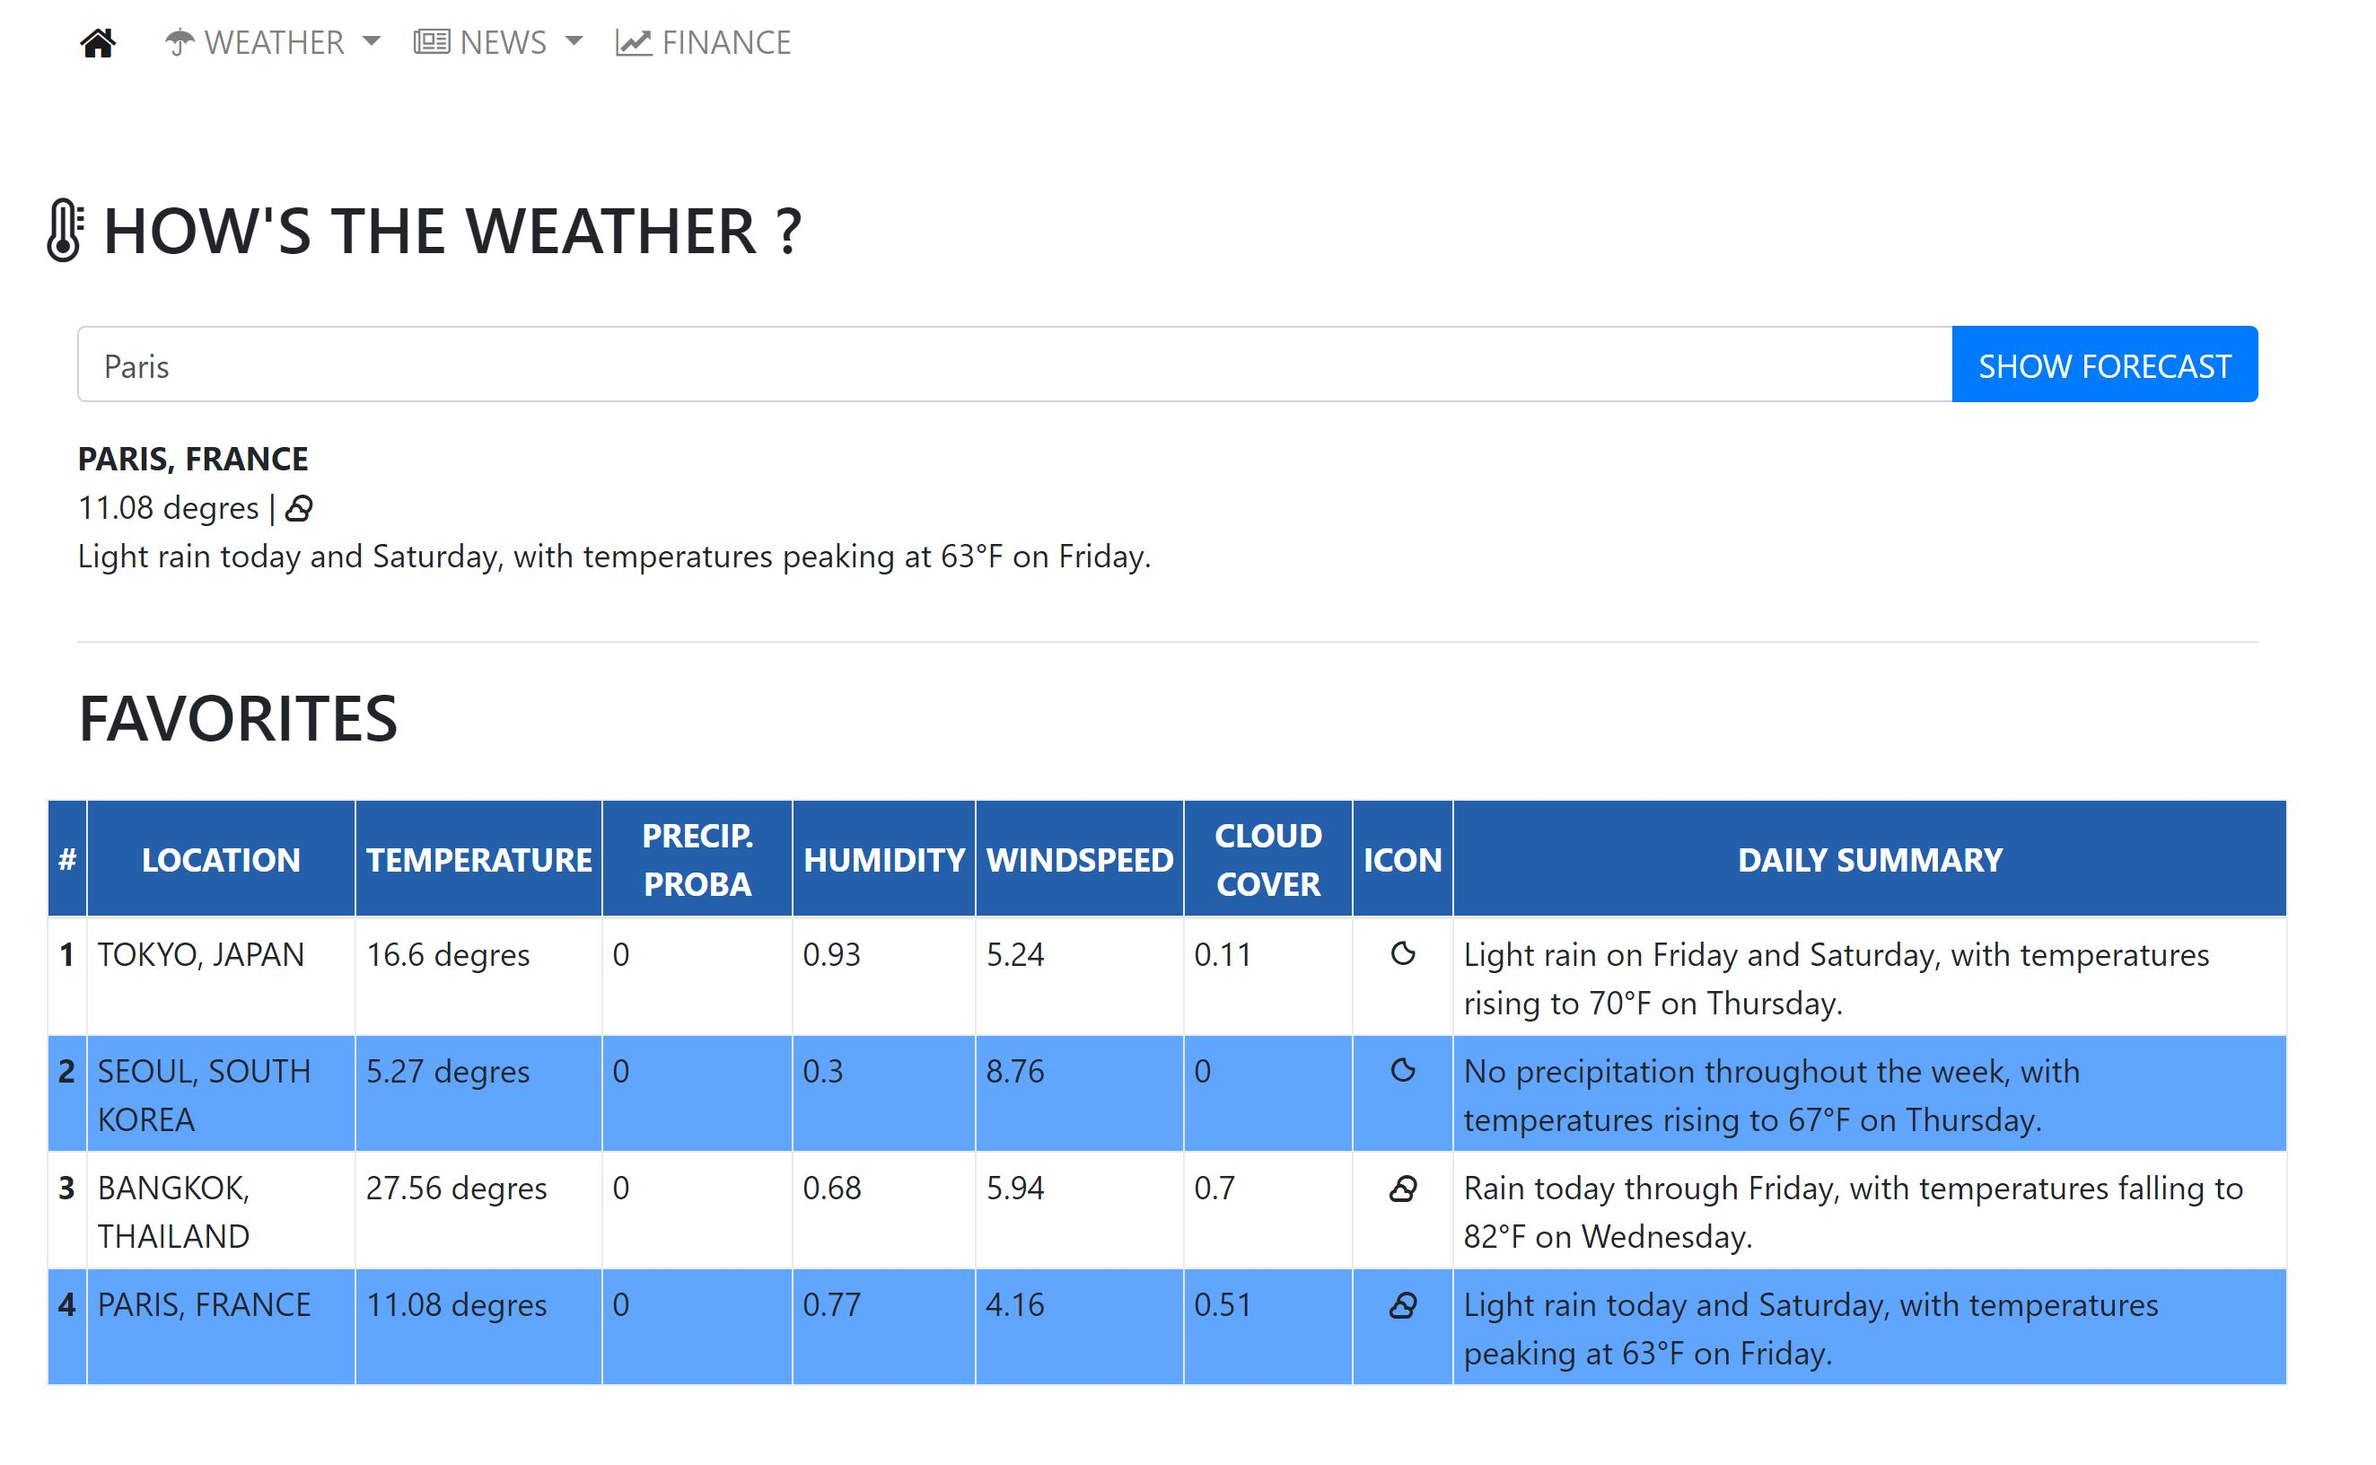
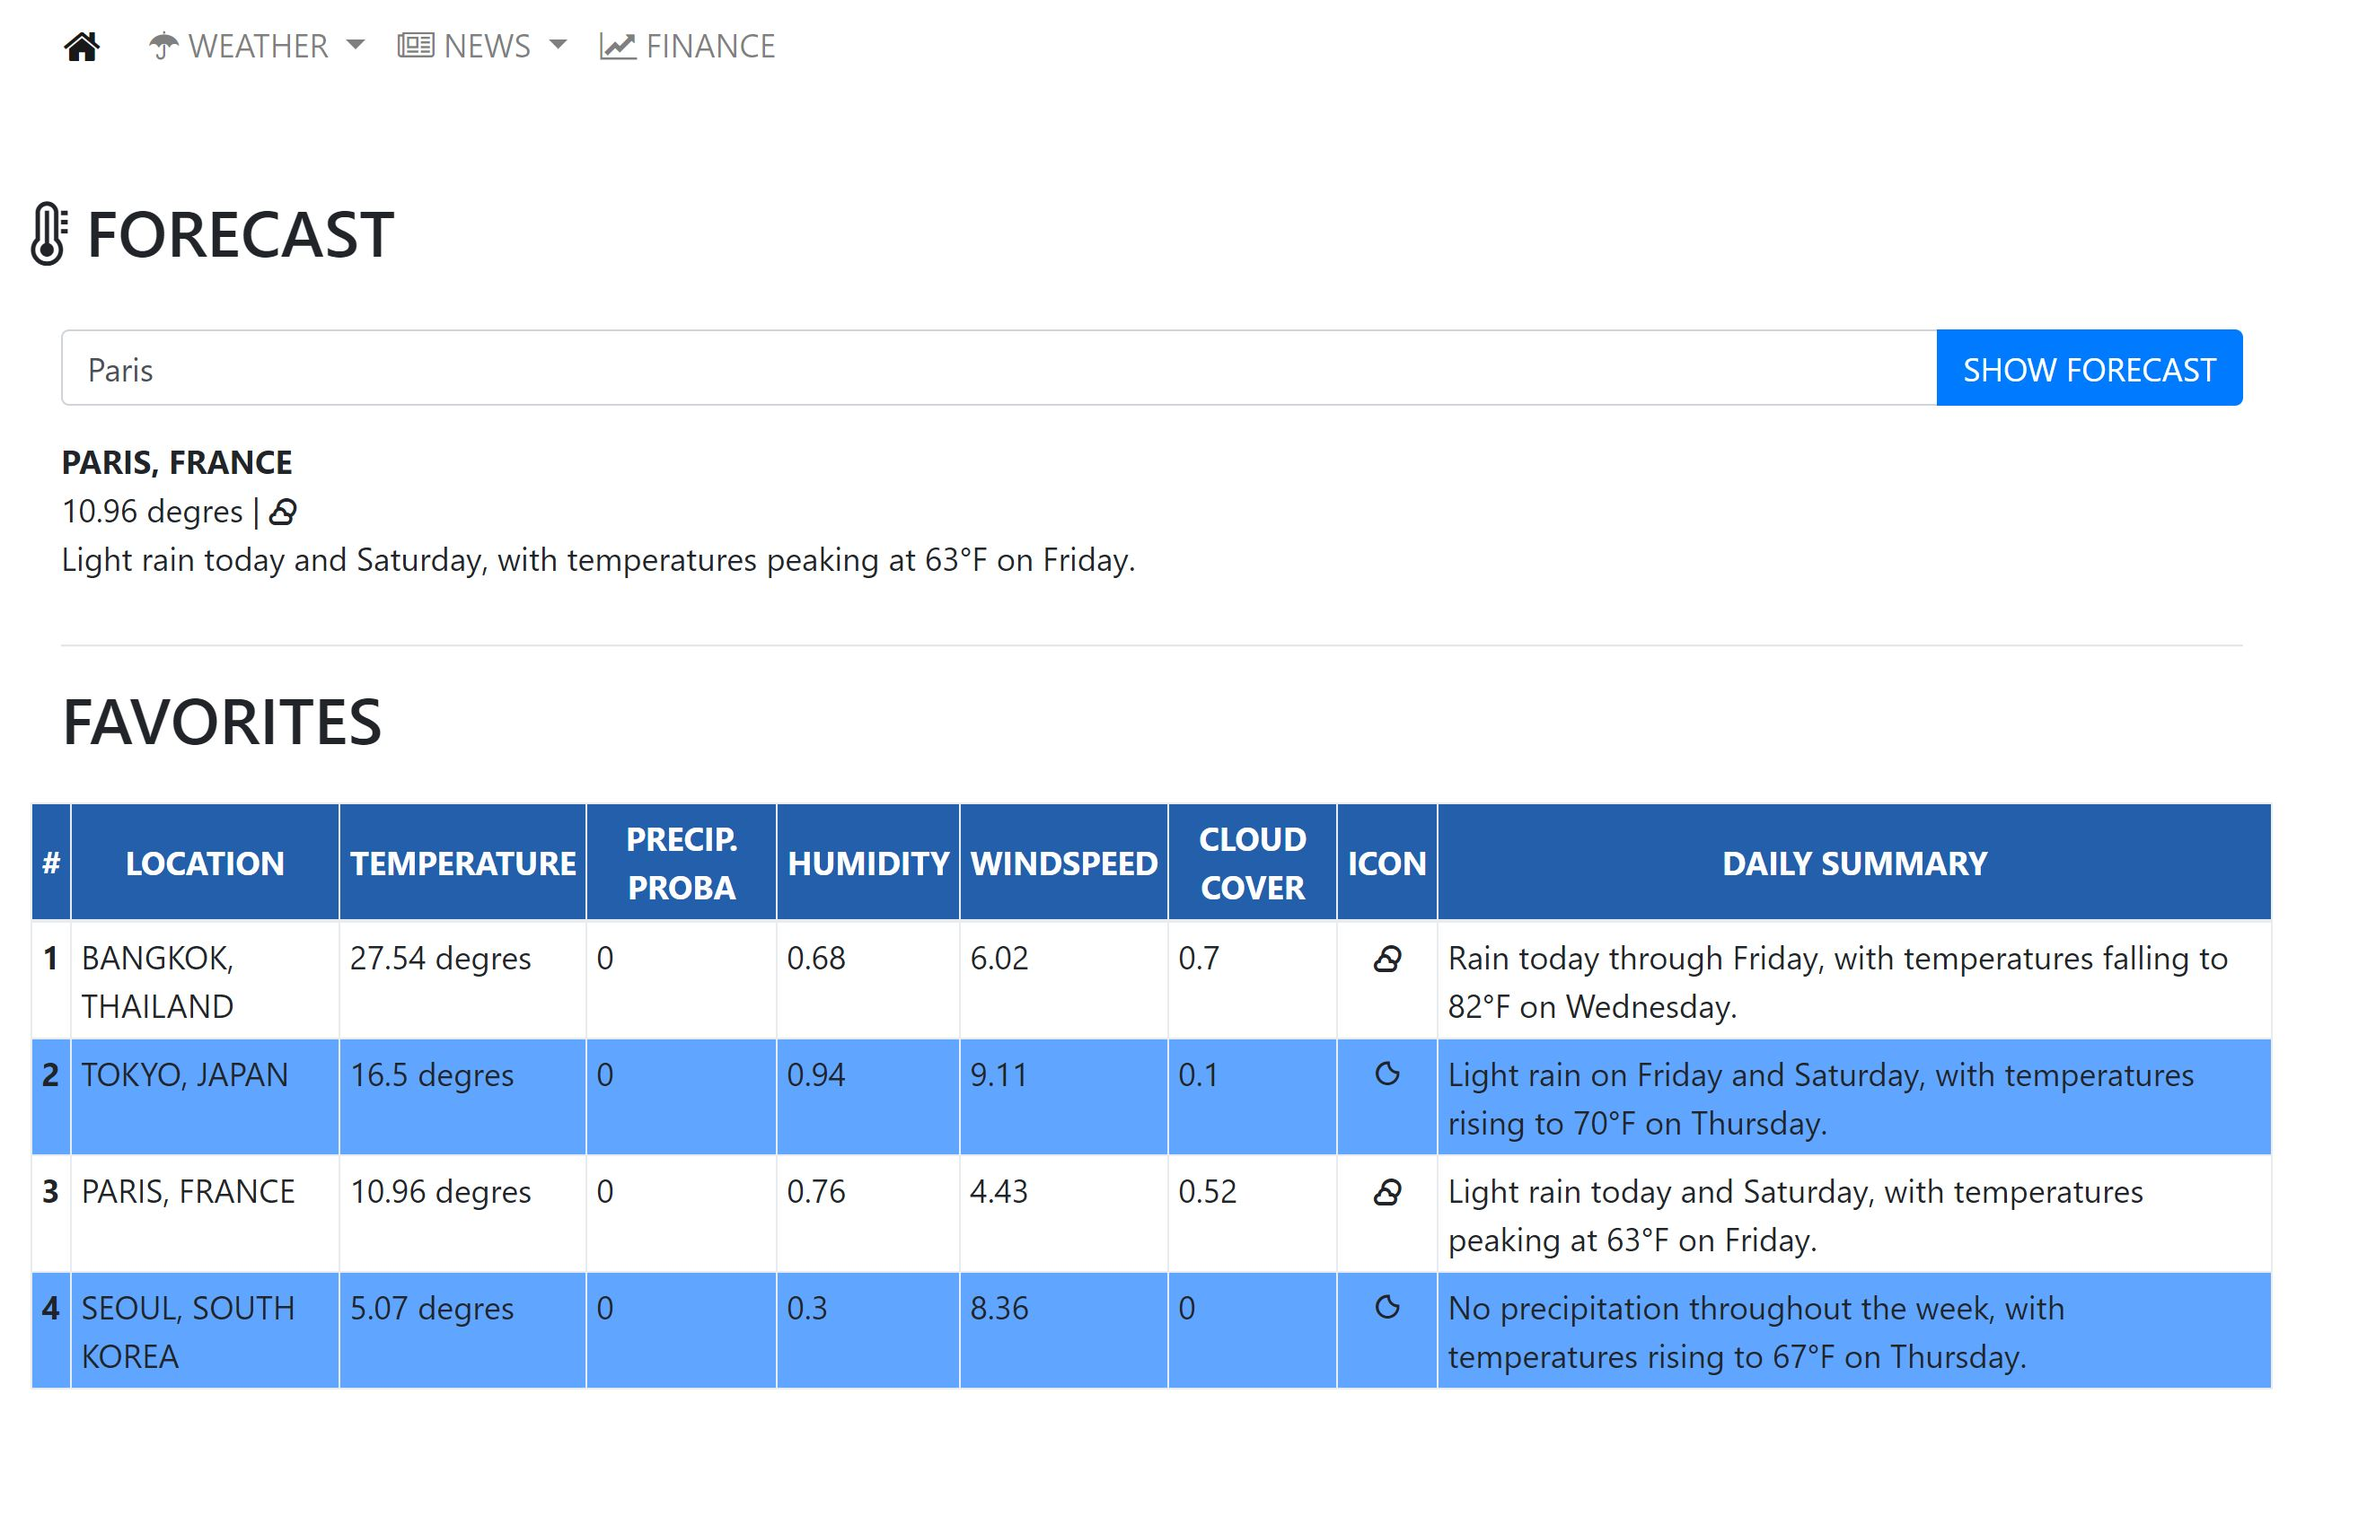
edit typo

diff --git a/public/src/app/views/header/header.component.html b/public/src/app/views/header/header.component.html
@@ -16,7 +16,7 @@
           </a>
           <div class="dropdown-menu" aria-labelledby="navbarDropdownMenuLink">
             <a class="dropdown-item" routerLink="/weather-list">
-              <i class="fa fa-thermometer-full" aria-hidden="true"></i> How's the Weather ?</a>
+              <i class="fa fa-thermometer-full" aria-hidden="true"></i> Forecast</a>
             <a class="dropdown-item" routerLink="/weather-fav-address-list">
               <i class="fa fa-heart" aria-hidden="true"></i> Favorites</a>
           </div>

diff --git a/public/src/app/views/weather/weather-list/weather-list.component.html b/public/src/app/views/weather/weather-list/weather-list.component.html
@@ -1,7 +1,7 @@
 <div class="container">
   <div class="row">
     <h2 class="header-title-page">
-      <i class="fa fa-thermometer-full" aria-hidden="true"></i> HOW'S THE WEATHER ?</h2>
+      <i class="fa fa-thermometer-full" aria-hidden="true"></i> Forecast</h2>
   </div>
   <div class="row">
     <div class="col-md-12">
